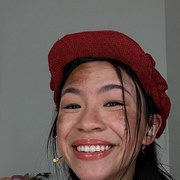
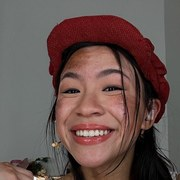
Testimonial 4: the crop drops 70px so her face sits in the middle of the circle
Able's read was right: the 820px square was centred 70px too high, which left the face low in the
circle with empty space to the left and above it. Same size, same x centre, vertical centre
500 -> 570, so the crop is (365,160,1185,980).

The size has to stay at 820 for this. The beret's topmost corner sits about 380px from the centre of
her face, so a smaller square would clip the hat the moment the face is centred. Three placements
were compared at the mask - 500 as shipped, 570, 640 - and 570 is the one that lands the crosshair on
her eyes and nose with the whole beret still inside; 640 centres too low and brings the brim to the
rim.

Its src moves to ?v=20261012.78.

diff --git a/index.html b/index.html
@@ -338,7 +338,7 @@
 <!-- Testimonial 4 -->
                         <div class="testimonial">
                           <div class="img">
-                            <img src="img/testimonials/testimonial-4.jpg?v=20261012.77" alt="Éponine Thénardier">
+                            <img src="img/testimonials/testimonial-4.jpg?v=20261012.78" alt="Éponine Thénardier">
                           </div>
                           <div class="text">
                             <p>I love him, but when the night is over<br>He is gone, the river's just a river<br>Without him, the world around me changes<br>The trees are bare and everywhere<br>The streets are full of strangers</p>
